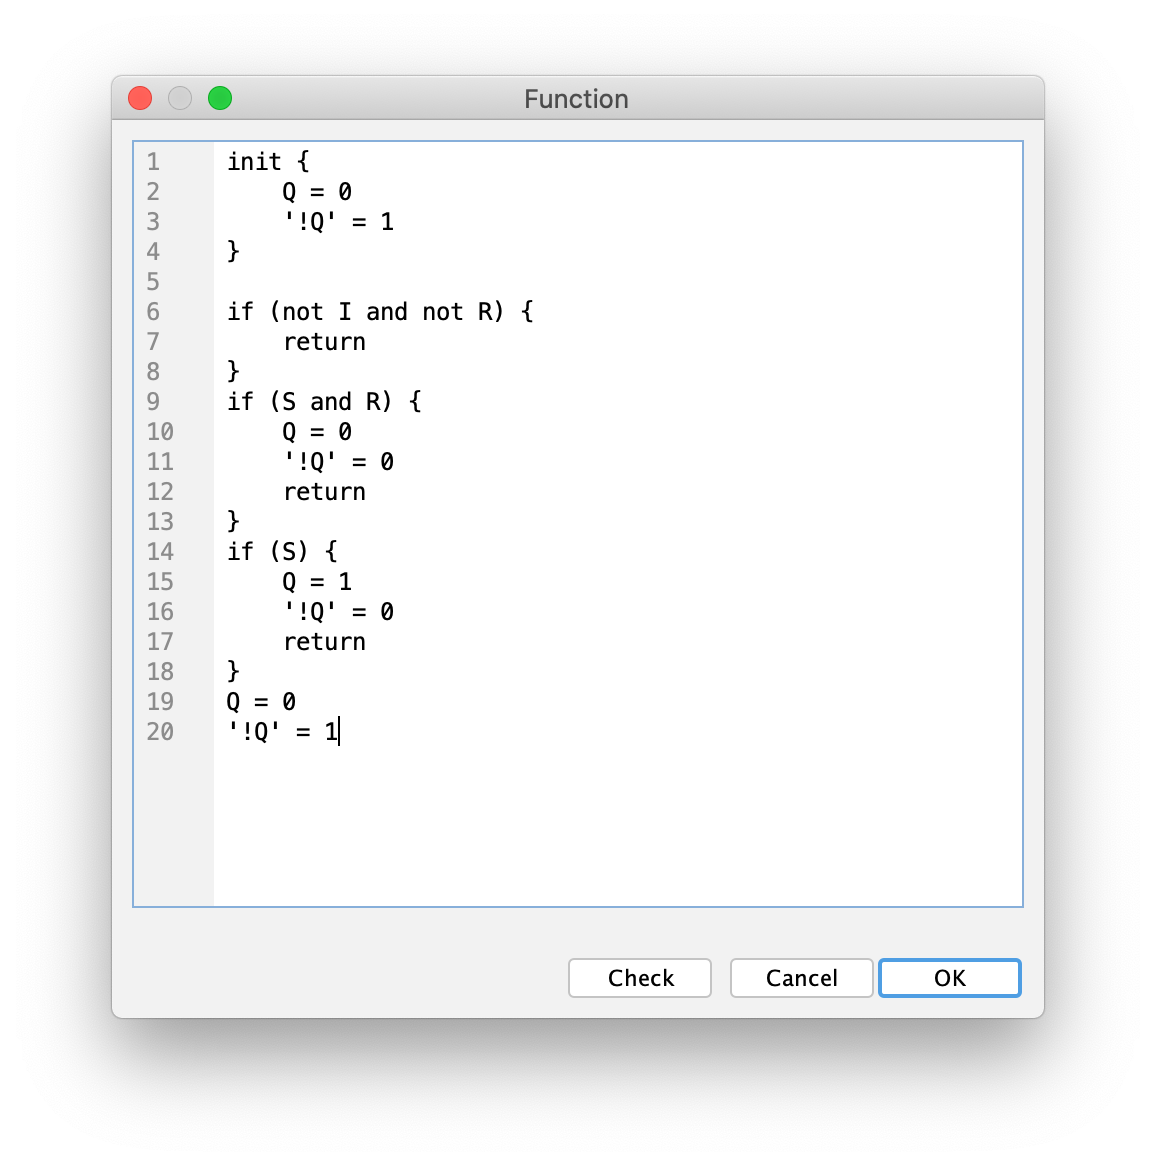
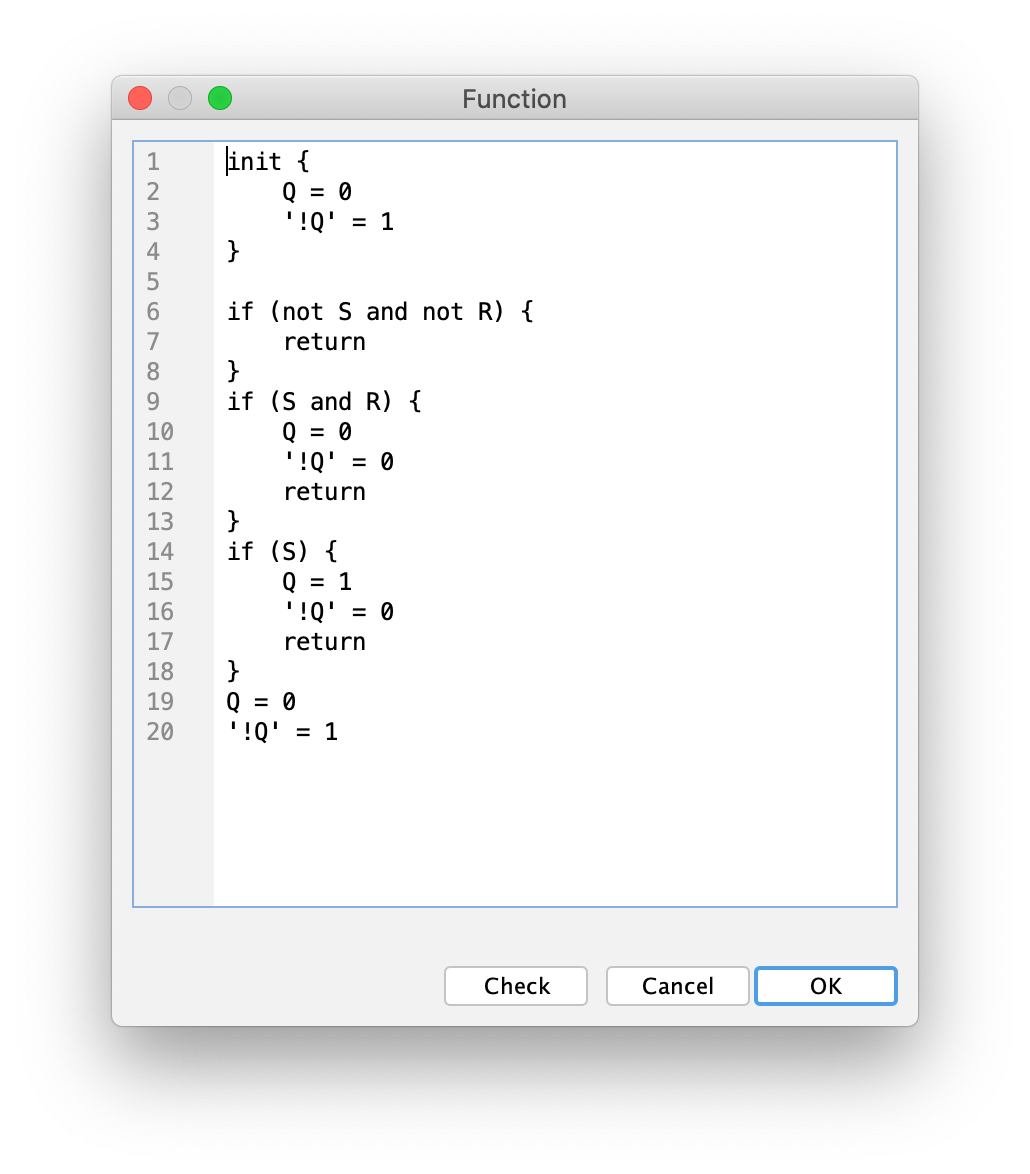
DSL: fixed all "context" I18N in calls of Interpreter.interpretCatching()
Used separate translations instead of those the user knows
from the script properties in the bean resources

diff --git a/graph/shared/src/main/ch/scorpion/jabbah/graph/view/scenario/ScenarioStepImpl.kt b/graph/shared/src/main/ch/scorpion/jabbah/graph/view/scenario/ScenarioStepImpl.kt
@@ -43,7 +43,7 @@ class ScenarioStepImpl(
 			LOG.trace("Parsing condition script of '${name.value}'")
 			BaseModule.parserFactory
 				.create(it, null)
-				.parseCatching(ScriptMetaData(name.value, Translations.getString("graph.dsl.scenarioStepCondition.text")))
+				.parseCatching(ScriptMetaData(name.value, Translations.getString("graph.property.scenario.condition.name")))
 		}
 	}
 
@@ -61,7 +61,7 @@ class ScenarioStepImpl(
 			LOG.trace("Parsing onEntry script of '${name.value}'")
 			BaseModule.parserFactory
 				.create(it, null)
-				.parseCatching(ScriptMetaData(name.value, Translations.getString("graph.dsl.scenarioStepEntryAction.text")))
+				.parseCatching(ScriptMetaData(name.value, Translations.getString("graph.property.scenario.onEntry.name")))
 		}
 	}
 
@@ -75,7 +75,7 @@ class ScenarioStepImpl(
 			LOG.trace("Parsing onExit script of '${name.value}'")
 			BaseModule.parserFactory
 				.create(it, null)
-				.parseCatching(ScriptMetaData(name.value, Translations.getString("graph.dsl.scenarioStepExitAction.text")))
+				.parseCatching(ScriptMetaData(name.value, Translations.getString("graph.property.scenario.onExit.name")))
 		}
 	}
 
@@ -132,7 +132,7 @@ class ScenarioStepImpl(
 	override val condition: (DrawingView<GraphView>) -> Boolean get() = { view ->
 		conditionInterpreter?.let {
 			it.interpretCatching(
-				ScriptMetaData(name.value, Translations.getString("graph.dsl.scenarioStepCondition.text")),
+				ScriptMetaData(name.value, Translations.getString("graph.property.scenario.condition.name")),
 				view.drawing.graph!!) != 0L
 		} ?: false
 	}
@@ -153,13 +153,13 @@ class ScenarioStepImpl(
 
 	override fun activate(view: DrawingView<GraphView>) {
 		onEntryInterpreter?.interpretCatching(
-			ScriptMetaData(name.value, Translations.getString("graph.dsl.scenarioStepEntryAction.text")),
+			ScriptMetaData(name.value, Translations.getString("graph.property.scenario.onEntry.name")),
 			view.drawing.graph)
 	}
 
 	override fun passivate(view: DrawingView<GraphView>) {
 		onExitInterpreter?.interpretCatching(
-			ScriptMetaData(name.value, Translations.getString("graph.dsl.scenarioStepExitAction.text")),
+			ScriptMetaData(name.value, Translations.getString("graph.property.scenario.onExit.name")),
 			view.drawing.graph)
 	}
 

diff --git a/graph/shared/src/main/ch/scorpion/jabbah/graph/view/usecase/UsecaseImpl.kt b/graph/shared/src/main/ch/scorpion/jabbah/graph/view/usecase/UsecaseImpl.kt
@@ -38,7 +38,7 @@ class UsecaseImpl(
 	private val executionScriptASTCache = resettableLazy {
 		executionScriptProperty.script?.let {
 			LOG.trace("Parsing execution script of Usecase '${this.name.value}'")
-			createScriptParser(it).parseCatching(ScriptMetaData(this.name.value, Translations.getString("graph.dsl.usecaseLogic.text")))
+			createScriptParser(it).parseCatching(ScriptMetaData(this.name.value, Translations.getString("graph.property.usecase.execScript.name")))
 		}
 	}
 
@@ -54,7 +54,7 @@ class UsecaseImpl(
 	private val testScriptASTCache = resettableLazy {
 		testScriptProperty.script?.let {
 			LOG.trace("Parsing test script of Usecase '${this.name.value}'")
-			createScriptParser(it).parseCatching(ScriptMetaData(this.name.value, Translations.getString("graph.dsl.usecaseTest.text")))
+			createScriptParser(it).parseCatching(ScriptMetaData(this.name.value, Translations.getString("graph.property.usecase.testScript.name")))
 		}
 	}
 
@@ -84,11 +84,11 @@ class UsecaseImpl(
 	}
 
 	override fun run() {
-		executionScriptInterpreter?.interpretCatching(ScriptMetaData(name.value, Translations.getString("graph.dsl.usecaseLogic.text")))
+		executionScriptInterpreter?.interpretCatching(ScriptMetaData(name.value, Translations.getString("graph.property.usecase.execScript.name")))
 	}
 
 	override fun runTest() {
-		testScriptInterpreter?.interpretCatching(ScriptMetaData(name.value, Translations.getString("graph.dsl.usecaseTest.text")))
+		testScriptInterpreter?.interpretCatching(ScriptMetaData(name.value, Translations.getString("graph.property.usecase.testScript.name")))
 	}
 
 	override fun dispose() {}

diff --git a/graph/shared/src/main/ch/scorpion/jabbah/graph/library/ContainerLibraryElement.kt b/graph/shared/src/main/ch/scorpion/jabbah/graph/library/ContainerLibraryElement.kt
@@ -53,11 +53,10 @@ class ContainerLibraryElement(
 
 	private val executionScriptASTCache = resettableLazy {
 		metaGraph?.graph?.model?.script?.let {
-			// TODO I18N
 			LOG.trace("Parsing script of '${metaGraph!!.name}'")
 			metaGraph!!.graph.model!!
 				.createParser(it, null)
-				.parseCatching(ScriptMetaData(metaGraph!!.name, Translations.getString("graph.dsl.subgraphLogic.text")))
+				.parseCatching(ScriptMetaData(metaGraph!!.name, Translations.getString("graph.property.GraphViewImpl.script.name")))
 		}
 	}
 
@@ -69,7 +68,7 @@ class ContainerLibraryElement(
 			LOG.trace("Parsing symbol drawing script of '${metaGraph!!.name}'")
 			metaGraph!!.containerDrawing.
 				createDrawSymbolScriptParser(it)
-				.parseCatching(ScriptMetaData(metaGraph!!.name, Translations.getString("graph.dsl.drawSymbol.text")))
+				.parseCatching(ScriptMetaData(metaGraph!!.name, Translations.getString("graph.property.ContainerDrawing.execDrawScript.name")))
 		}
 	}
 

diff --git a/graph/shared/src/main/ch/scorpion/jabbah/graph/view/scenario/ScenarioImpl.kt b/graph/shared/src/main/ch/scorpion/jabbah/graph/view/scenario/ScenarioImpl.kt
@@ -50,7 +50,7 @@ class ScenarioImpl(
 		LOG.trace("Parsing condition script of '${name.value}'")
 		BaseModule.parserFactory
 			.create(conditionScript, null)
-			.parseCatching(ScriptMetaData(name.value, Translations.getString("graph.dsl.scenarioCondition.text")))
+			.parseCatching(ScriptMetaData(name.value, Translations.getString("graph.property.scenario.condition.name")))
 	}
 
 	private var interpreter: Interpreter? = null
@@ -86,7 +86,7 @@ class ScenarioImpl(
 	override val condition: (DrawingView<GraphView>) -> Boolean get() = { view ->
 		interpreter?.let {
 			it.interpretCatching(
-				ScriptMetaData(name.value, Translations.getString("graph.dsl.scenarioCondition.text")),
+				ScriptMetaData(name.value, Translations.getString("graph.property.scenario.condition.name")),
 				view.drawing.graph!!) != 0L
 		} ?: false
 	}

diff --git a/graph/shared/src/main/ch/scorpion/jabbah/graph/view/vertice/SubGraphVerticeViewImpl.kt b/graph/shared/src/main/ch/scorpion/jabbah/graph/view/vertice/SubGraphVerticeViewImpl.kt
@@ -208,7 +208,7 @@ class SubGraphVerticeViewImpl(
 			drawExecScriptInterpreter?.let {
 				DrawExecSymbolFunctions.bind(this, context)
 				try {
-					it.interpretCatching(ScriptMetaData(this.model.graphName.value, Translations.getString("graph.dsl.drawSymbol.text")), rethrow = true)
+					it.interpretCatching(ScriptMetaData(this.model.graphName.value, Translations.getString("graph.property.ContainerDrawing.execDrawScript.name")), rethrow = true)
 				} catch (e: Throwable) {
 					// Reset Interpreter in case of an error to avoid cascading errors
 					// when the View is redrawn

diff --git a/graph/shared/src/main/ch/scorpion/jabbah/graph/model/vertice/SubGraphVerticeRef.kt b/graph/shared/src/main/ch/scorpion/jabbah/graph/model/vertice/SubGraphVerticeRef.kt
@@ -202,7 +202,7 @@ class SubGraphVerticeRef(
 
 	private fun runExecutionScript(data: GraphActorData?) {
 		interpreter?.interpretCatching(
-			ScriptMetaData(type, Translations.getString("graph.dsl.subgraphLogic.text")),
+			ScriptMetaData(type, Translations.getString("graph.property.GraphViewImpl.script.name")),
 			params = data)
 	}
 
